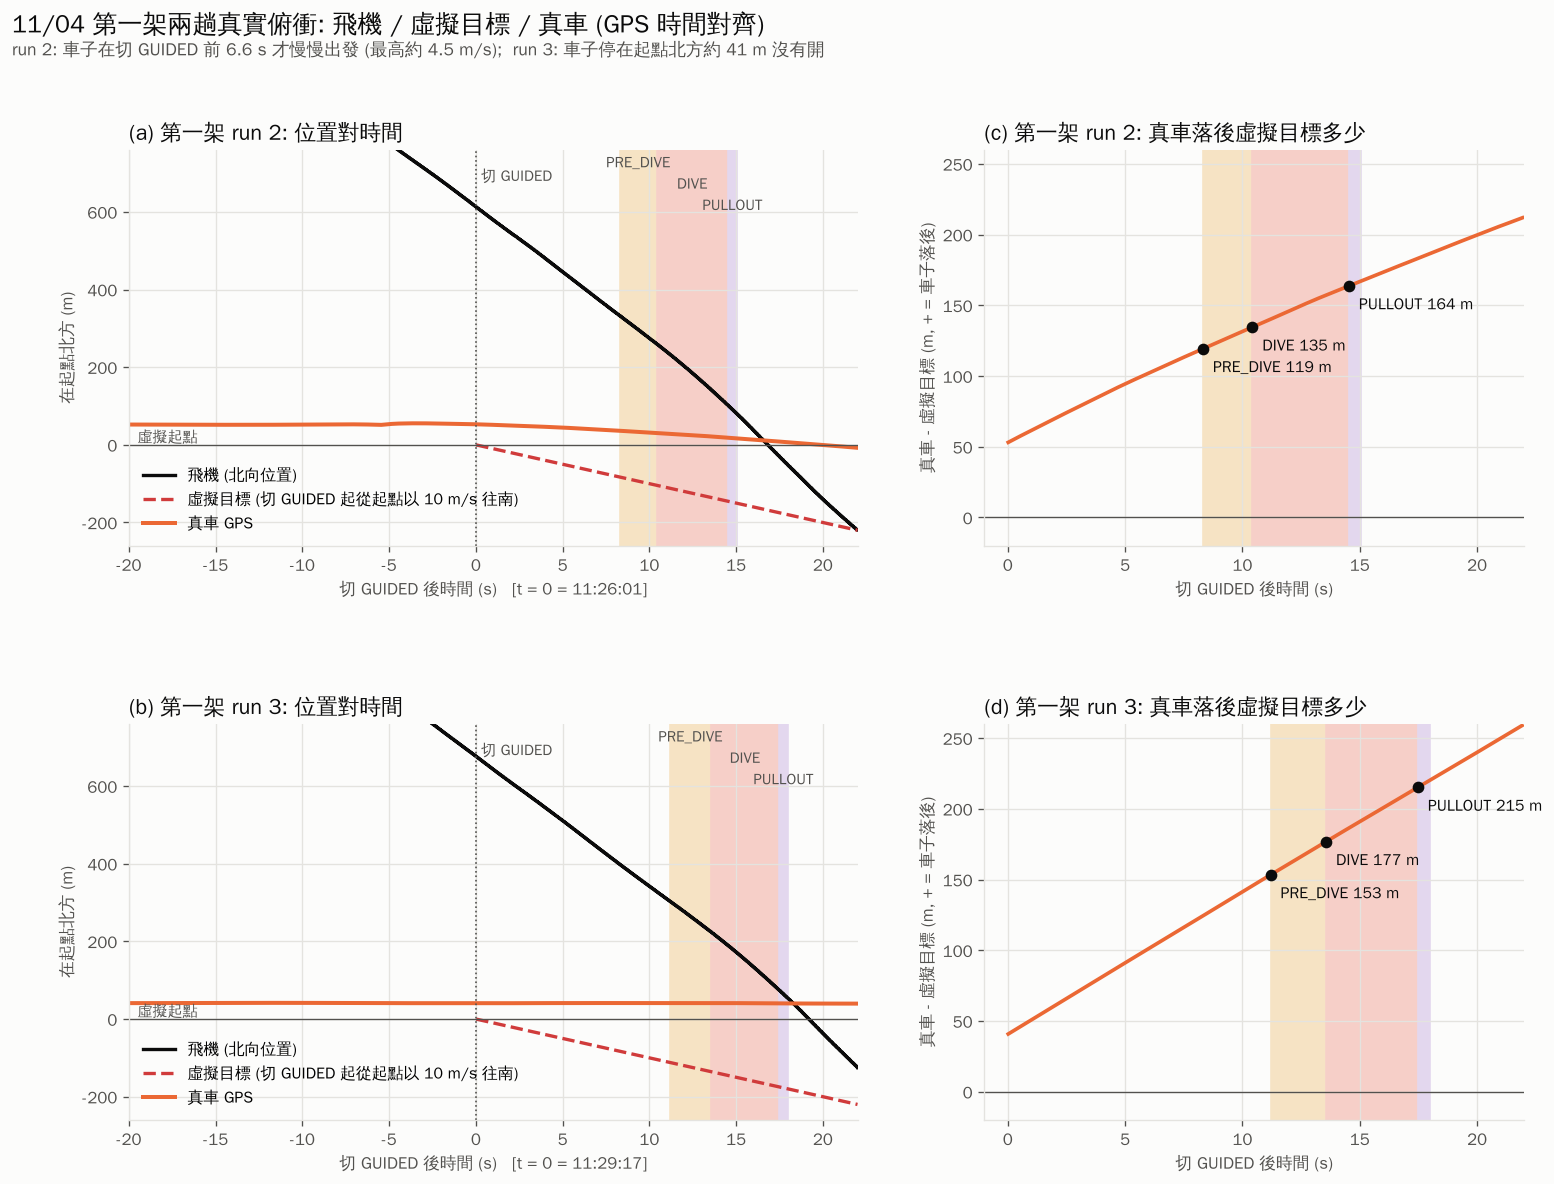
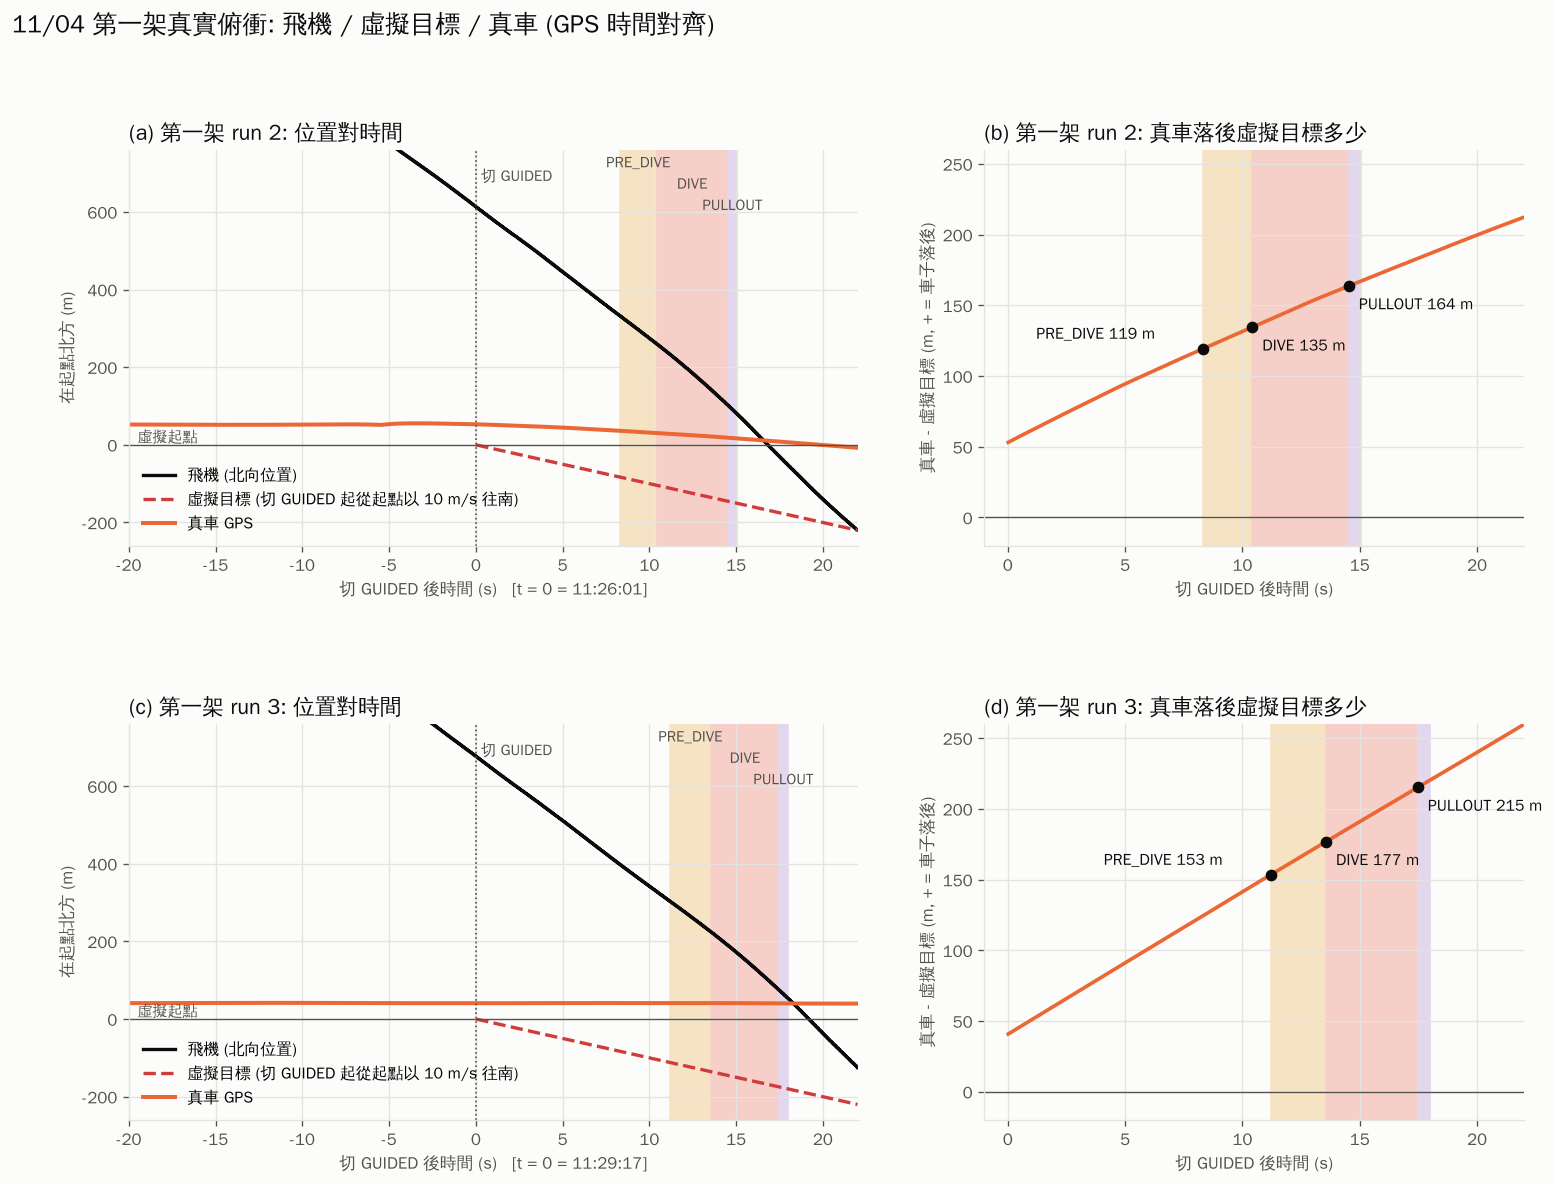
11/04 flight: car vs virtual target for the second aircraft; generalise the car plot script
Claude-Session: https://claude.ai/code/session_01NWqS5gYEPnF3kkhtvkuu2s

diff --git a/test_records/20261104_xwing_flight/car_vs_virtual.py b/test_records/20261104_xwing_flight/car_vs_virtual.py
@@ -4,13 +4,22 @@ matplotlib.use('Agg'); import matplotlib.pyplot as plt
 from matplotlib import font_manager as fm
 fm.fontManager.addfont('/usr/share/fonts/truetype/wqy/wqy-zenhei.ttc')
 plt.rcParams['font.family'] = 'WenQuanYi Zen Hei'; plt.rcParams['axes.unicode_minus'] = False
-SC = '/tmp/claude-0/-home-user-hsu-realflight-true/b79ff2fa-47de-5b23-89fd-e6ce021b1454/scratchpad/'
-OUT = sys.argv[1]
+import argparse, gzip, json
+ap = argparse.ArgumentParser(description='真車加速統計 + 真實俯衝時 飛機/虛擬目標/真車 對照')
+ap.add_argument('out', help='輸出資料夾')
+ap.add_argument('--car', required=True, help='車子 GPS: car_gps_extract.py 的 _gps.json.gz (或 bin_extract 的 pickle)')
+ap.add_argument('--log', required=True, help='飛行 CSV (xwing_virtual_*.csv)')
+ap.add_argument('--guided', type=float, nargs='+', required=True, help='要對照的趟次: 切 GUIDED 的 log 時間 (s)')
+ap.add_argument('--names', nargs='+', required=True, help='各趟名稱 (與 --guided 對應)')
+ap.add_argument('--plane', default='第一架', help='標題用')
+ap.add_argument('--tag', default='1104', help='輸出檔名後綴')
+args = ap.parse_args()
+OUT = args.out
 SURF, INK, INK2, GRID = '#fcfcfb', '#0b0b0b', '#52514e', '#e4e3df'
-COL = ['#2a78d6', '#eb6834', '#1baf7a', '#8e44ad']
+COL = ['#2a78d6', '#eb6834', '#1baf7a', '#8e44ad', '#008300', '#7f6a00']
 TW = datetime.timezone(datetime.timedelta(hours=8))
 S = (23.7222419, 120.3798848); R = 6378137
-o = pickle.load(open(SC + 'car1104/car.pkl', 'rb'))
+o = (json.load(gzip.open(args.car, 'rt')) if args.car.endswith('.gz') else pickle.load(open(args.car, 'rb')))
 G = [g for g in o['GPS'] if g['Status'] >= 3]
 cu = np.array([315964800 + g['GWk'] * 604800 + g['GMS'] / 1000 - 18 for g in G])
 cn = np.array([math.radians(g['Lat'] - S[0]) * R for g in G])
@@ -19,12 +28,27 @@ def hm(u): return datetime.datetime.fromtimestamp(u, TW).strftime('%H:%M:%S')
 
 # ── 車子 4 趟: 出發時刻 (速度 > 0.5 連續) ──
 deps = []
-for lab, hhmmss in (('第 1 趟 (配合第一架 run 2)', '11:25:50'), ('第 2 趟', '11:31:40'), ('第 3 趟', '11:34:55'), ('第 4 趟', '11:37:30')):
-    t0 = datetime.datetime.strptime('2026-11-04 ' + hhmmss, '%Y-%m-%d %H:%M:%S').replace(tzinfo=TW).timestamp()
-    idx = np.where(cu >= t0)[0]
-    for i in idx:
-        if np.all(cs[i:i + 5] > 0.5):
-            deps.append((lab, i)); break
+i, nG = 0, len(cs)
+while i < nG:
+    if cs[i] > 1.0:
+        j = i
+        while j < nG and cs[j] > 1.0: j += 1
+        if cn[i] - cn[j - 1] > 100:                  # 往南開超過 100 m = 一趟
+            k = i
+            while k > 0 and cs[k - 1] > 0.5 and cu[i] - cu[k - 1] < 15: k -= 1
+            deps.append(k)
+        i = j
+    i += 1
+# 標出跟切 GUIDED 對上的那幾趟 (出發在切 GUIDED 前 40 s ~ 後 10 s)
+_L0 = list(csv.DictReader(open(args.log, encoding='utf-8-sig')))
+_t = np.array([float(r['t']) for r in _L0]); _u = np.array([float(r['gps_unix']) if r['gps_unix'] else np.nan for r in _L0])
+_ok = np.isfinite(_u); _A = np.polyfit(_t[_ok], _u[_ok], 1)
+GU = [np.polyval(_A, g) for g in args.guided]
+_lab = []
+for n_, i in enumerate(deps):
+    m = [nm for nm, ug in zip(args.names, GU) if -40 <= ug - cu[i] <= 10]
+    _lab.append((f'第 {n_ + 1} 趟' + (f' (配合{args.plane} {m[0]})' if m else ''), i))
+deps = _lab
 runs = []
 for lab, i in deps:
     k = (cu >= cu[i]) & (cu <= cu[i] + 40)
@@ -79,12 +103,12 @@ for (ri, ci), cell in tb.get_celld().items():
     if ri == 0: cell.set_text_props(color=INK2, weight='bold'); cell.set_height(cell.get_height() * 1.5)
     elif ci == 0: cell.get_text().set_color(COL[ri - 1])
 at.set_title('各趟統計 (車子 BIN, 5 Hz GPS)', loc='left', color=INK, fontsize=12)
-fig.suptitle('11/04 真車加速統計 (車子 GPS 記錄 11:24~11:43)', x=0.06, ha='left', fontsize=15, color=INK, y=0.985)
-fig.text(0.06, 0.955, '起點 = 虛擬軌跡起點 (23.7222419, 120.3798848); 4 趟都在起點正北方出發往南開 (東西偏差 < 3 m)', fontsize=10.5, color=INK2)
-fig.savefig(OUT + '/car_accel_stats_1104.png', dpi=120, facecolor=SURF, bbox_inches='tight')
+fig.suptitle(f'11/04 真車加速統計 ({args.plane}; 車子 GPS 記錄 {hm(cu[0])[:5]}~{hm(cu[-1])[:5]})', x=0.06, ha='left', fontsize=15, color=INK, y=0.985)
+fig.text(0.06, 0.955, f'起點 = 虛擬軌跡起點 (23.7222419, 120.3798848); {len(runs)} 趟都在起點正北方出發往南開', fontsize=10.5, color=INK2)
+fig.savefig(OUT + f'/car_accel_stats_{args.tag}.png', dpi=120, facecolor=SURF, bbox_inches='tight')
 
 # ═════ 圖 2: 真實俯衝時 飛機 / 虛擬目標 / 真車 ═════
-L = list(csv.DictReader(open(SC + 'f1104a/x/1_test/xwing_virtual_19700103_041747_moving_A_yawpid.csv', encoding='utf-8-sig')))
+L = _L0
 def fl(x):
     try: return float(x)
     except: return float('nan')
@@ -92,8 +116,8 @@ lt = np.array([fl(r['t']) for r in L]); lu = np.array([fl(r['gps_unix']) for r i
 ok = np.isfinite(lu)
 # log t → GPS 時間 (線性回歸, 避開 gps_unix 的取樣跳動)
 A = np.polyfit(lt[ok], lu[ok], 1)
-fig2, axs = plt.subplots(2, 2, figsize=(15, 10.5), facecolor=SURF, gridspec_kw=dict(hspace=0.45, wspace=0.2, width_ratios=[1.35, 1]))
-for row, (name, tg) in enumerate((('第一架 run 2', 1162.93), ('第一架 run 3', 1358.55))):
+fig2, axs = plt.subplots(len(args.guided), 2, figsize=(15, 10.5), facecolor=SURF, gridspec_kw=dict(hspace=0.45, wspace=0.2, width_ratios=[1.35, 1]))
+for row, (name, tg) in enumerate(zip([f'{args.plane} {n}' for n in args.names], args.guided)):
     ax, bx = axs[row]
     style(ax); style(bx)
     k = (lt >= tg - 20) & (lt <= tg + 22)
@@ -116,7 +140,7 @@ for row, (name, tg) in enumerate((('第一架 run 2', 1162.93), ('第一架 run 
     ax.axvline(0, color=INK2, lw=1, ls=':'); ax.text(0.3, 680, '切 GUIDED', color=INK2, fontsize=9)
     ax.set_xlim(-20, 22); ax.set_ylim(-260, 760)
     ax.set_xlabel(f'切 GUIDED 後時間 (s)   [t = 0 = {hm(ug)}]', color=INK2); ax.set_ylabel('在起點北方 (m)', color=INK2)
-    ax.set_title(f'({"ab"[row]}) {name}: 位置對時間', loc='left', color=INK, fontsize=13)
+    ax.set_title(f'({"aceg"[row]}) {name}: 位置對時間', loc='left', color=INK, fontsize=13)
     ax.legend(frameon=False, fontsize=9.5, loc='lower left')
     # 差距
     cn_i = np.interp(tt, ct, cnn, left=np.nan, right=np.nan)
@@ -127,11 +151,10 @@ for row, (name, tg) in enumerate((('第一架 run 2', 1162.93), ('第一架 run 
         idx = [i for i, x in enumerate(mode) if x == m]
         if idx:
             i0 = idx[0]; bx.plot([tt[i0]], [gap[i0]], 'o', color=INK, ms=6)
-            bx.annotate(f'{m} {gap[i0]:.0f} m', (tt[i0], gap[i0]), xytext=(6, -14), textcoords='offset points', fontsize=9.5, color=INK)
+            bx.annotate(f'{m} {gap[i0]:.0f} m', (tt[i0], gap[i0]), xytext=(-100, 6) if m == 'PRE_DIVE' else (6, -14), textcoords='offset points', fontsize=9.5, color=INK)
     bx.set_xlim(-1, 22); bx.set_ylim(-20, 260)
     bx.set_xlabel('切 GUIDED 後時間 (s)', color=INK2); bx.set_ylabel('真車 - 虛擬目標 (m, + = 車子落後)', color=INK2)
-    bx.set_title(f'({"cd"[row]}) {name}: 真車落後虛擬目標多少', loc='left', color=INK, fontsize=13)
-fig2.suptitle('11/04 第一架兩趟真實俯衝: 飛機 / 虛擬目標 / 真車 (GPS 時間對齊)', x=0.06, ha='left', fontsize=15, color=INK, y=0.99)
-fig2.text(0.06, 0.955, 'run 2: 車子在切 GUIDED 前 6.6 s 才慢慢出發 (最高約 4.5 m/s);  run 3: 車子停在起點北方約 41 m 沒有開', fontsize=10.5, color=INK2)
-fig2.savefig(OUT + '/dive_car_vs_virtual_1104.png', dpi=120, facecolor=SURF, bbox_inches='tight')
+    bx.set_title(f'({"bdfh"[row]}) {name}: 真車落後虛擬目標多少', loc='left', color=INK, fontsize=13)
+fig2.suptitle(f'11/04 {args.plane}真實俯衝: 飛機 / 虛擬目標 / 真車 (GPS 時間對齊)', x=0.06, ha='left', fontsize=15, color=INK, y=0.99)
+fig2.savefig(OUT + f'/dive_car_vs_virtual_{args.tag}.png', dpi=120, facecolor=SURF, bbox_inches='tight')
 for r in runs: print(r['lab'], round(r['n0'], 1), r['tx'], r['vx'], r['vmax'])

diff --git a/test_records/20261104_xwing_flight/README.md b/test_records/20261104_xwing_flight/README.md
@@ -11,11 +11,24 @@
 雲台: 兩架每趟 GUIDED 都 100% 連線, TRACK / LOCK 都在 0.3 s 內確認, 鎖到 -28~-30° 約 0.8~1.4 s; 偵測率 0%.
 第二架: 彈射與落地瞬間我們這端 USB-UART 斷開 1 s (自動重開); 空中 12:53 對方程式重啟 (39 s).
 
-## 真車 (車子 BIN 11:24~11:43, 只涵蓋第一架)
+## 真車: 第一架 (車子 BIN 11:24~11:43)
 ![加速統計](car_accel_stats_1104.png)
 ![俯衝對照](dive_car_vs_virtual_1104.png)
 
 - 車子加速很慢: 0~15 s 只有 3~6 m/s, 約 18~24 s 才到 8.5~9.6 m/s; 全力開時 15 / 18 / 22 s 已開 46~64 / 64~83 / 89~116 m.
 - 第一架 run 2: 車子在切 GUIDED 前 6.6 s 才出發, 且開很慢 (最高約 4.5 m/s), 推頭時落後虛擬目標 119 m, DIVE 開始 135 m.
 - 第一架 run 3: 車子停在起點北方約 41 m 沒有開, 推頭時落後 153 m.
-- 圖用 `car_vs_virtual.py` 產生 (讀 scratchpad 的車子 BIN 與飛行 CSV).
+
+## 真車: 第二架 (車子 GPS 12:44~13:10, car_gps_extract.py 抽出)
+![加速統計 B](car_accel_stats_1104_B.png)
+![俯衝對照 B](dive_car_vs_virtual_1104_B.png)
+
+- 5 趟都在起點北方 36~53 m 出發; 經過起點花 12~18 s, 時速只有 4.1~5.5 m/s; 15 s 內只有 3~5.7 m/s.
+- 第二架 run 1: 車子在切 GUIDED 前 2 s 出發, 推頭時落後 124 m, DIVE 開始 130 m.
+- 第二架 run 2: 車子在切 GUIDED 前 5 s 出發, 推頭時落後 96 m, DIVE 開始 111 m.
+
+## 重畫
+```
+python3 car_vs_virtual.py <輸出資料夾> --car <車子 _gps.json.gz> --log <飛行 CSV> \
+        --guided <切 GUIDED log 時間 ...> --names "run 1" "run 2" --plane 第二架 --tag 1104_B
+```
